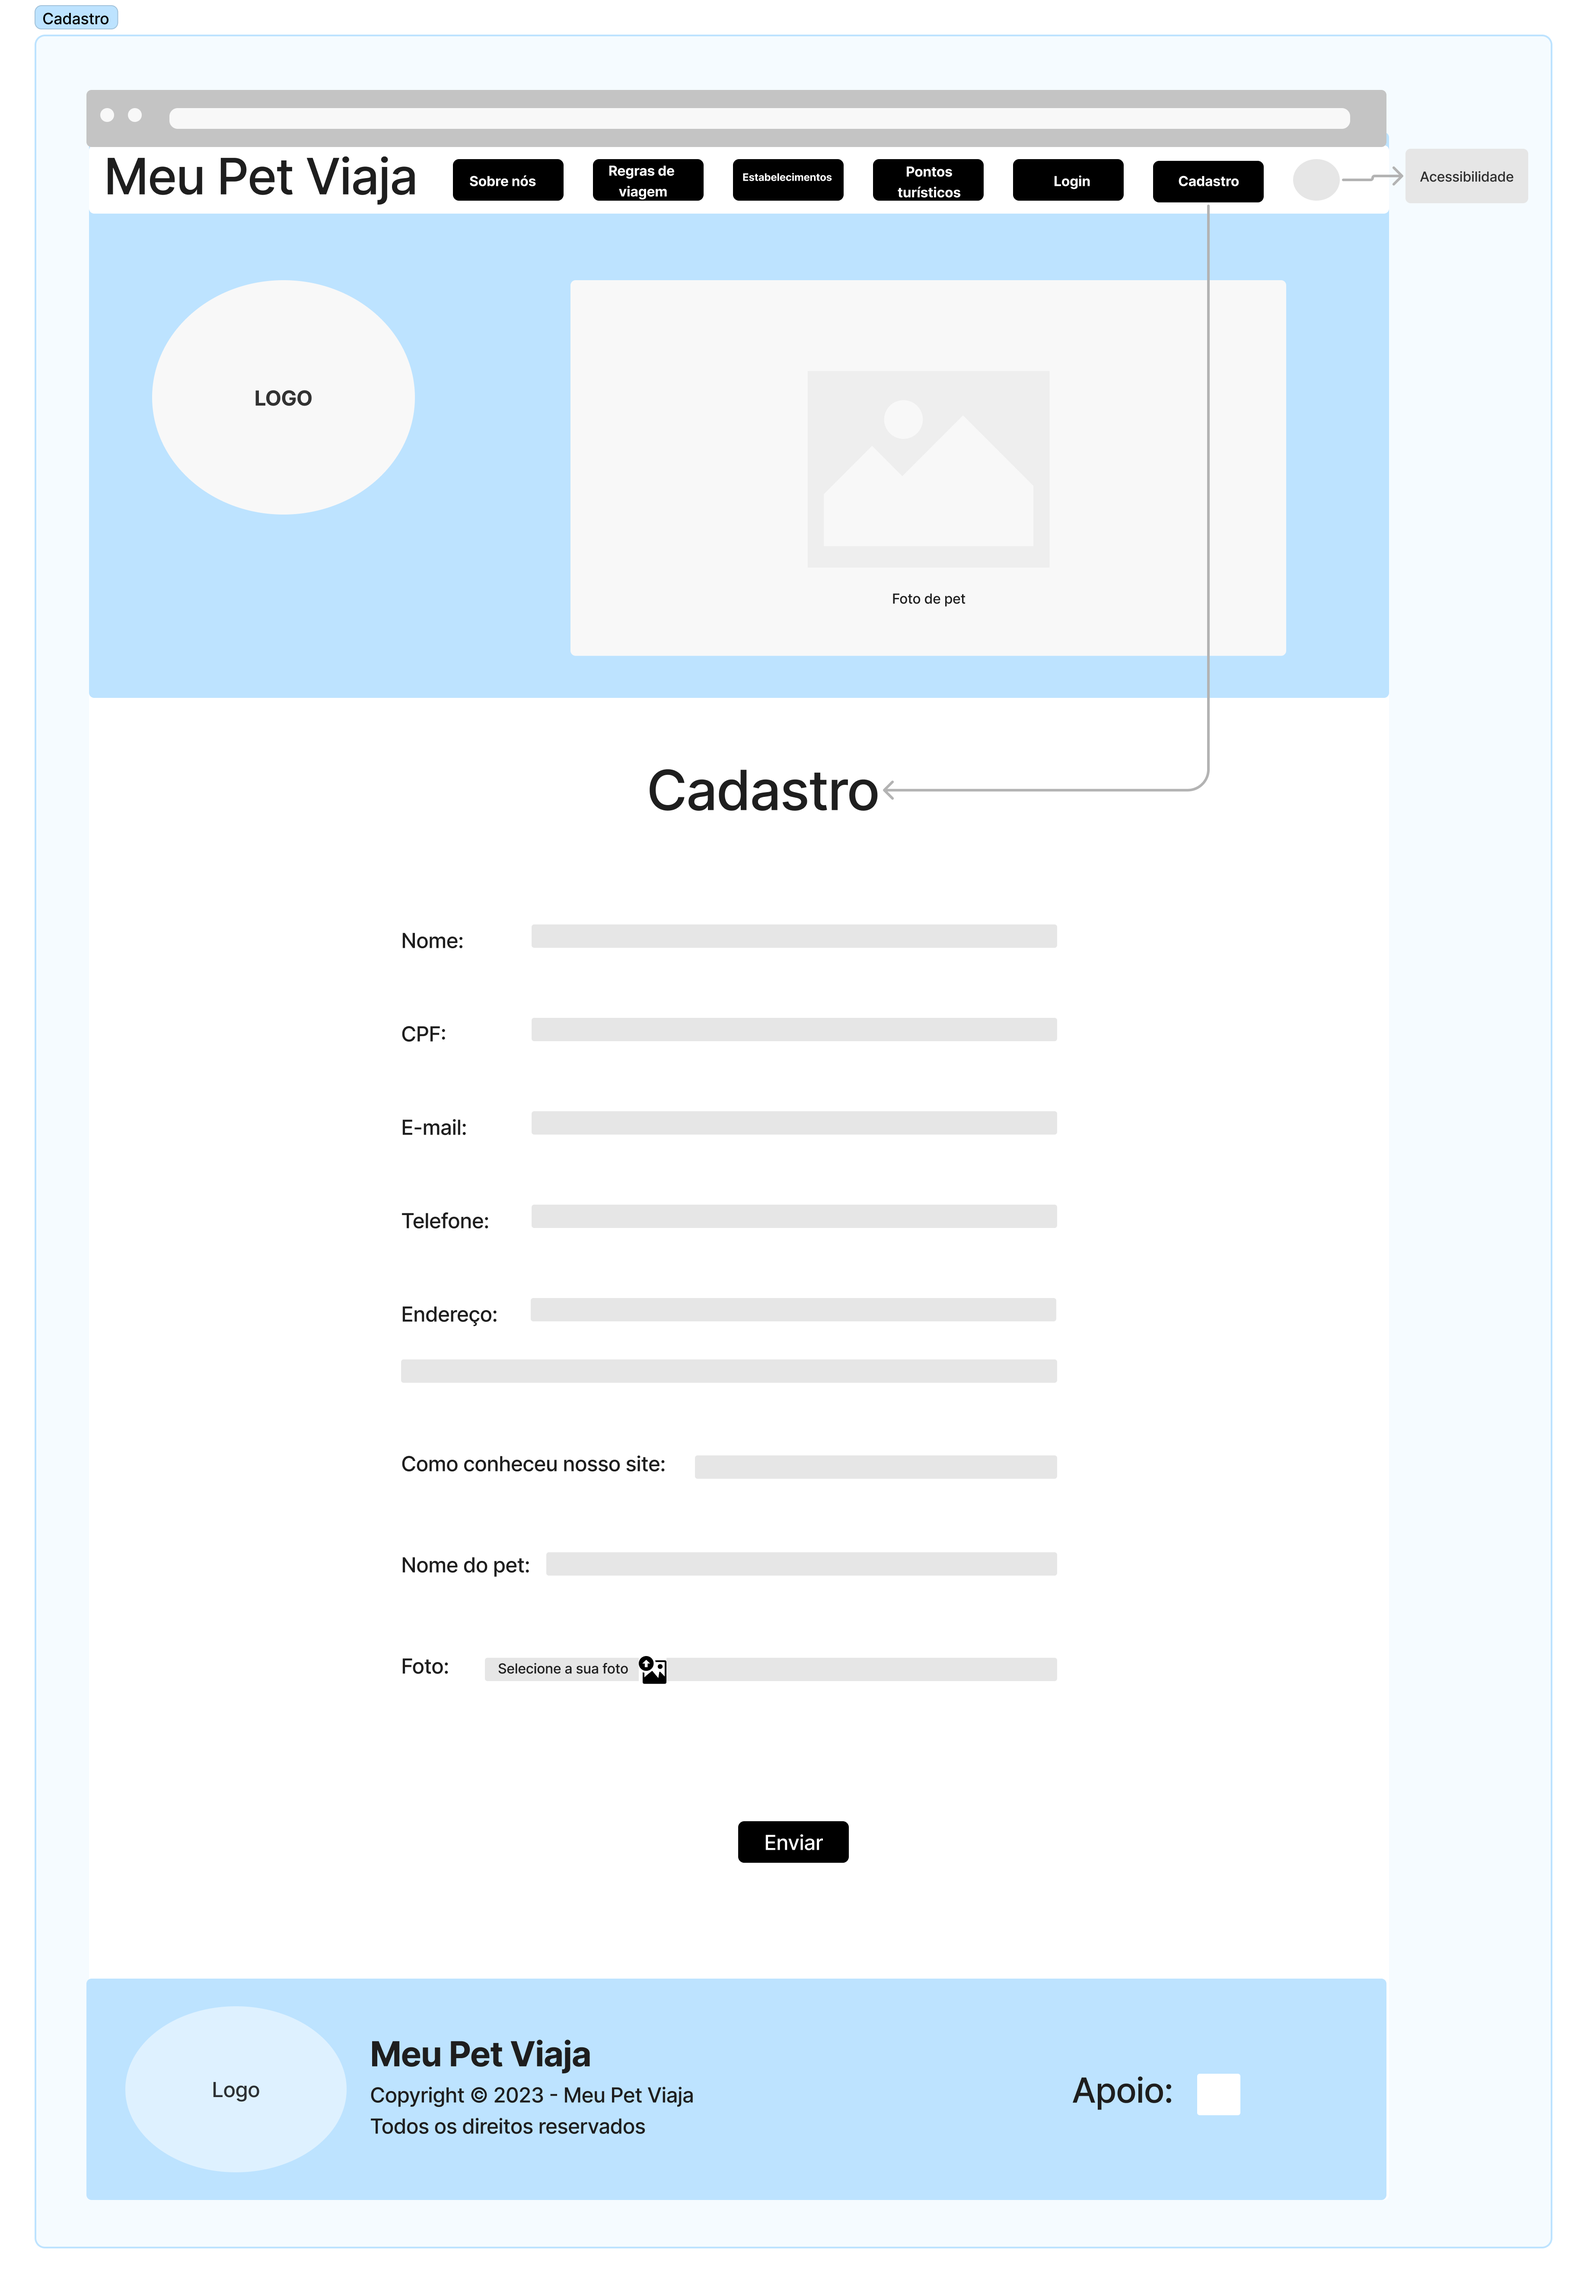
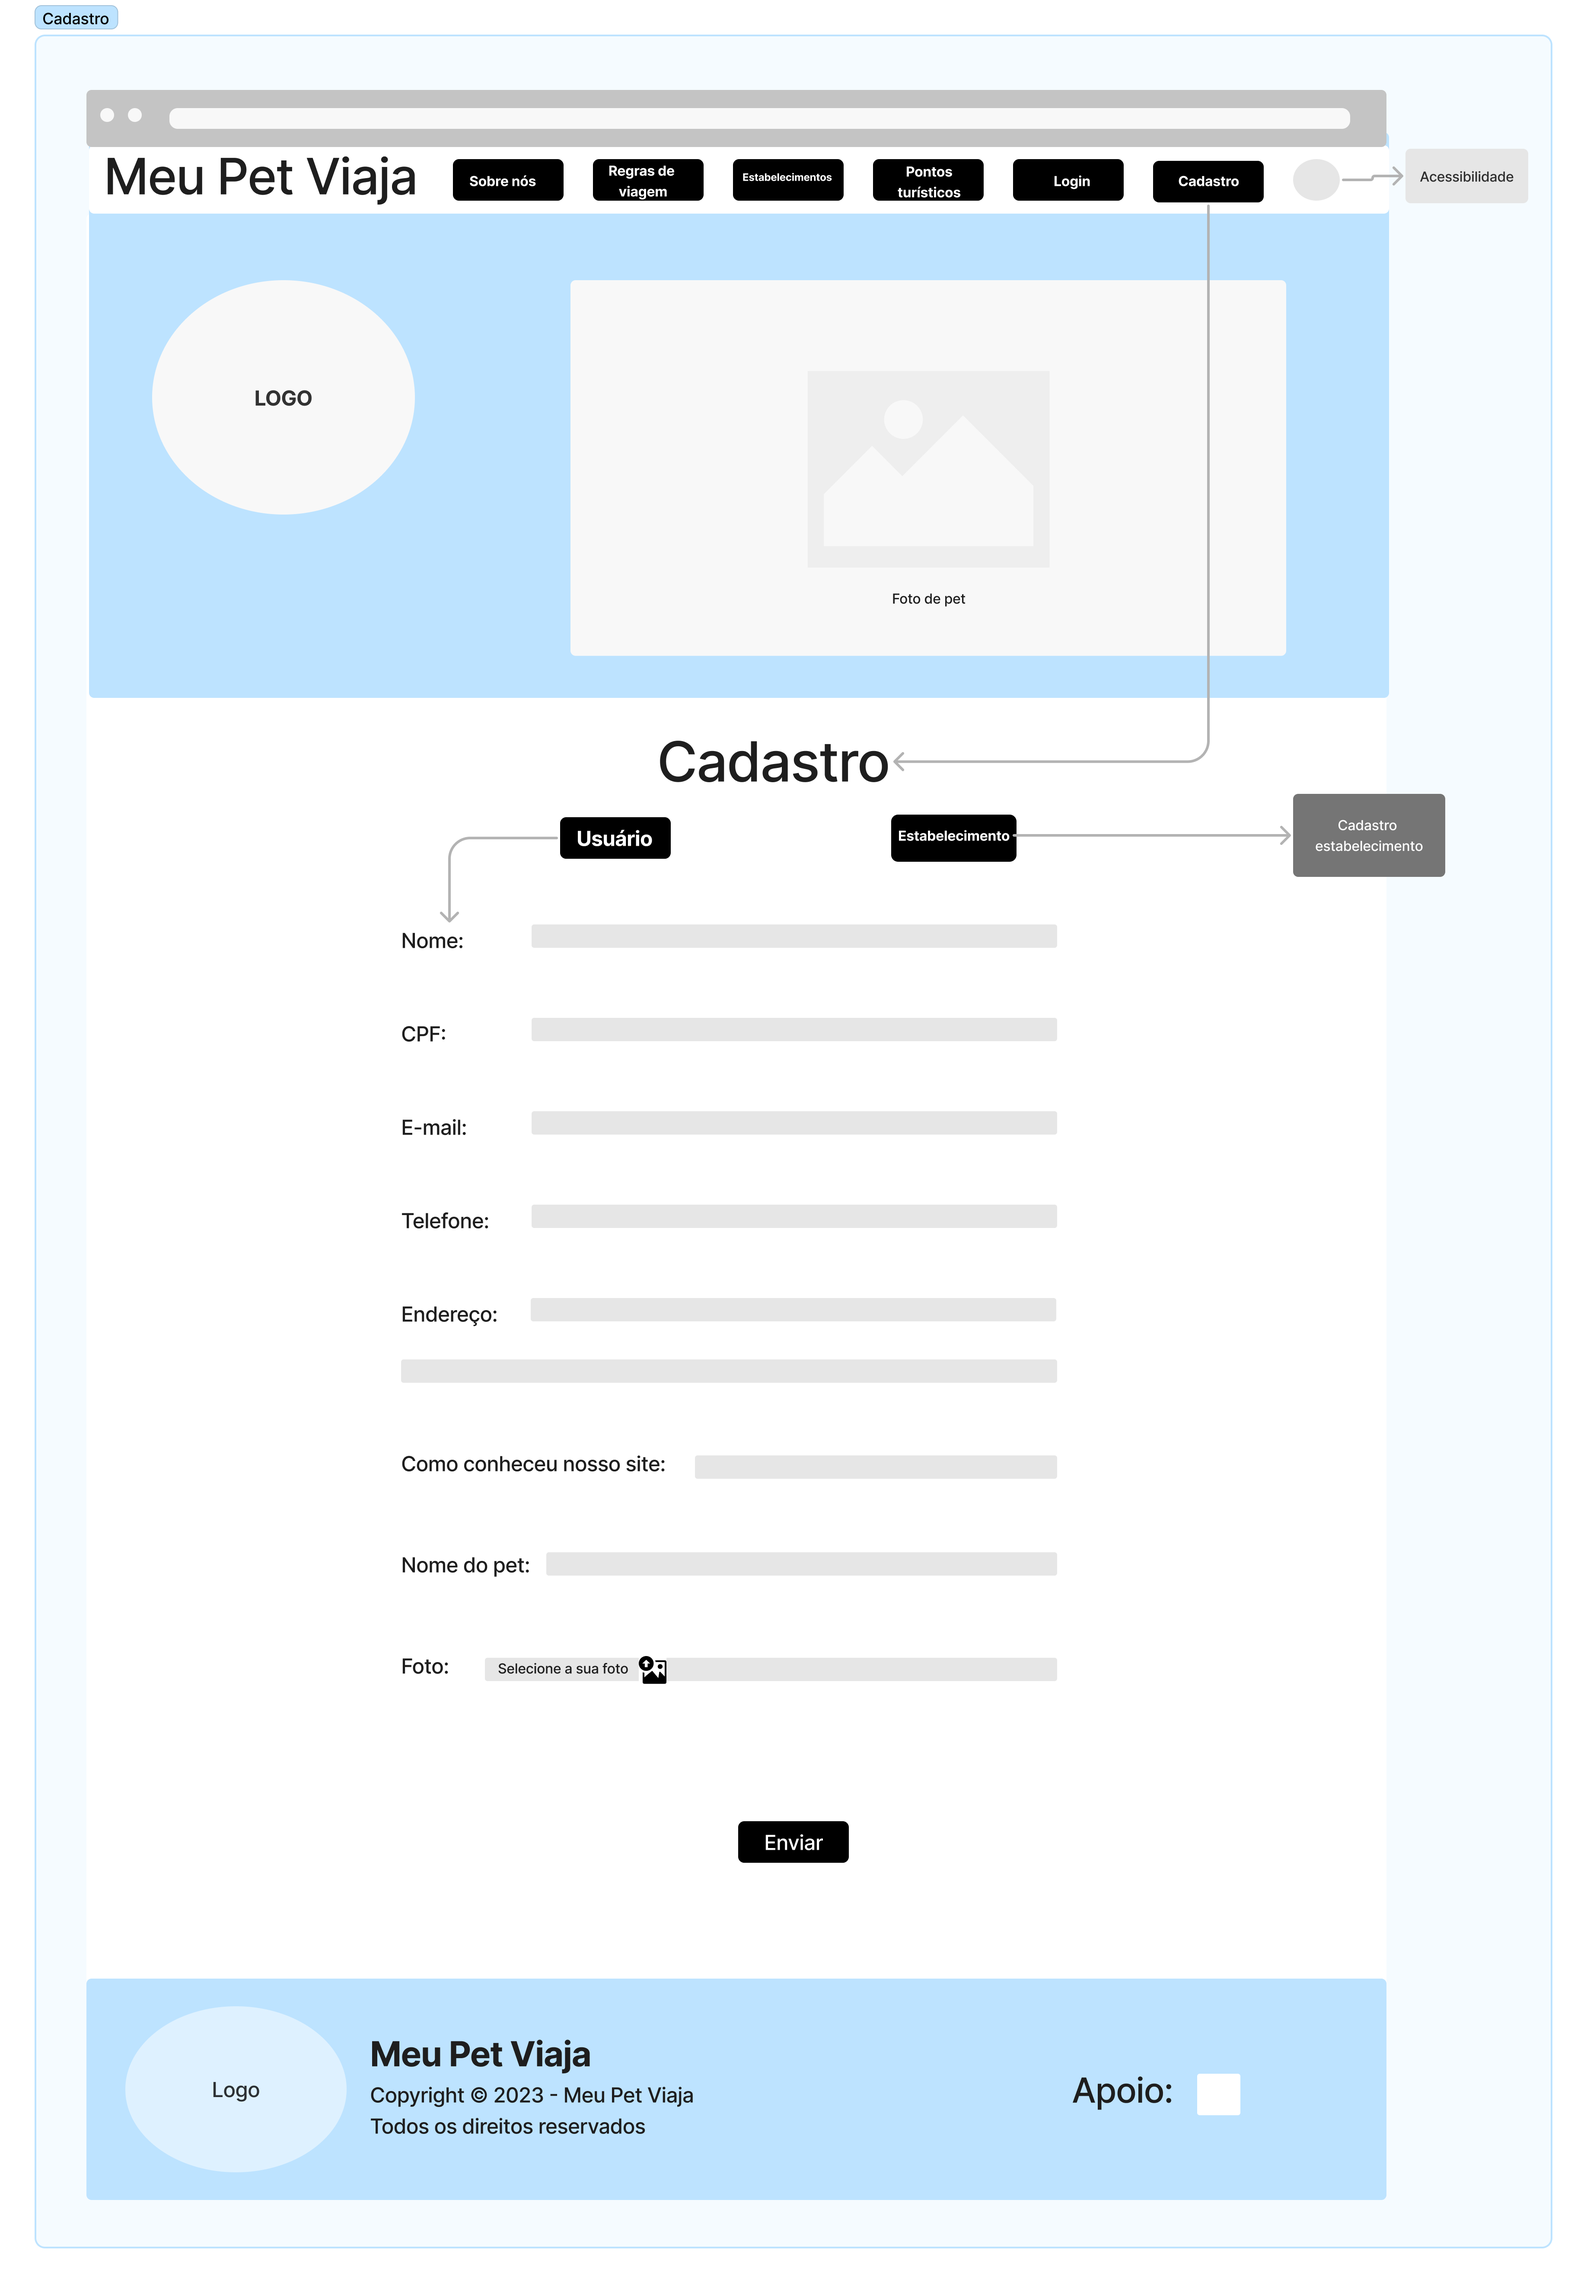
Correção de página de cadastro
Atualização da imagem da página de cadastro e informações #45

Changed region(s): [[0.3415, 0.3125, 0.652, 0.375], [0.8072, 0.3438, 0.9314, 0.4062]]

diff --git a/docs/interface.md b/docs/interface.md
@@ -39,7 +39,7 @@ Ao clicar no botão "Regras de Viagem" contido na homepage, o usuário será dir
 
 ### Cadastro
 
-Quando o usuário clicar no botão "Cadastro" localizado no menu navegação da Homepage, será redirecionado para a página "Cadastro". A página apresenta o mesmo menu navegação da homepage e o card do topo da página possui a logo e uma foto de um pet. Mais abaixo, o usuário conseguirá preencher seus dados cadastrais, fazer o upload de uma foto e enviar as informações através de um botão. No rodapé da página, constam os direitos de uso e a instituição de apoio do projeto.
+Quando o usuário clicar no botão "Cadastro" localizado no menu navegação da Homepage, será redirecionado para a página "Cadastro". A página apresenta o mesmo menu navegação da homepage e o card do topo da página possui a logo e uma foto de um pet. Mais abaixo, haverá dois botões para selecionar se o cadastro será do usuário ou do estabelecimento. Ao clicar no botão "usuário", será aberto um formulário onde o usuário conseguirá preencher seus dados cadastrais, fazer o upload de uma foto e enviar as informações através de um botão. Caso seja clicado no botão "estabelecimento", será redirecionado para a página de "Cadastro de estabelecimento". No rodapé da página, constam os direitos de uso e a instituição de apoio do projeto.
 
 ![Wireframe Cadastro](img/Cadastro.png)
 
